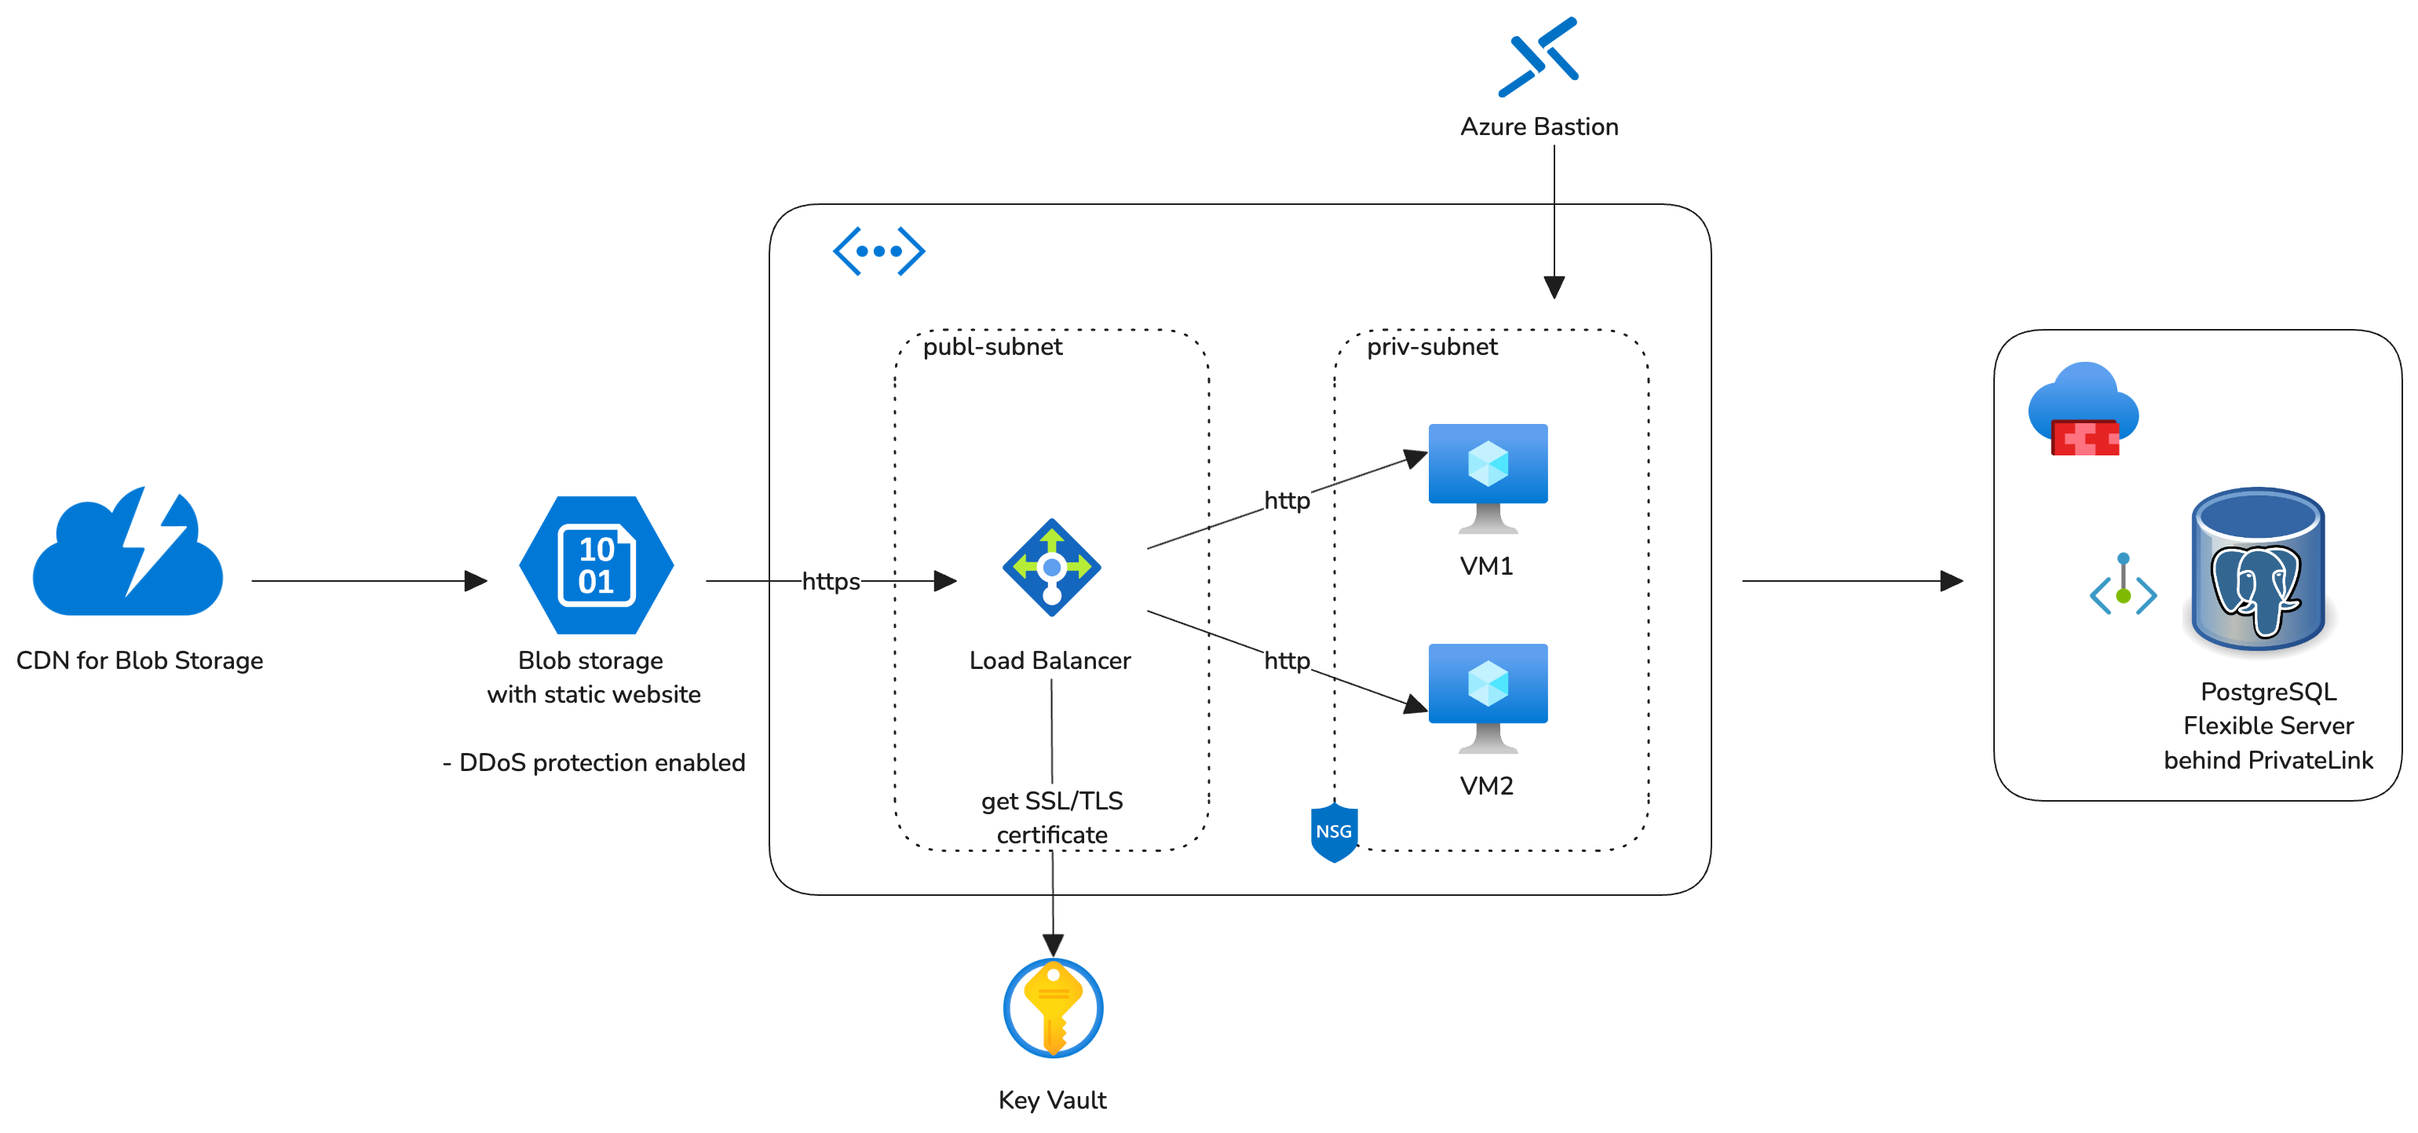
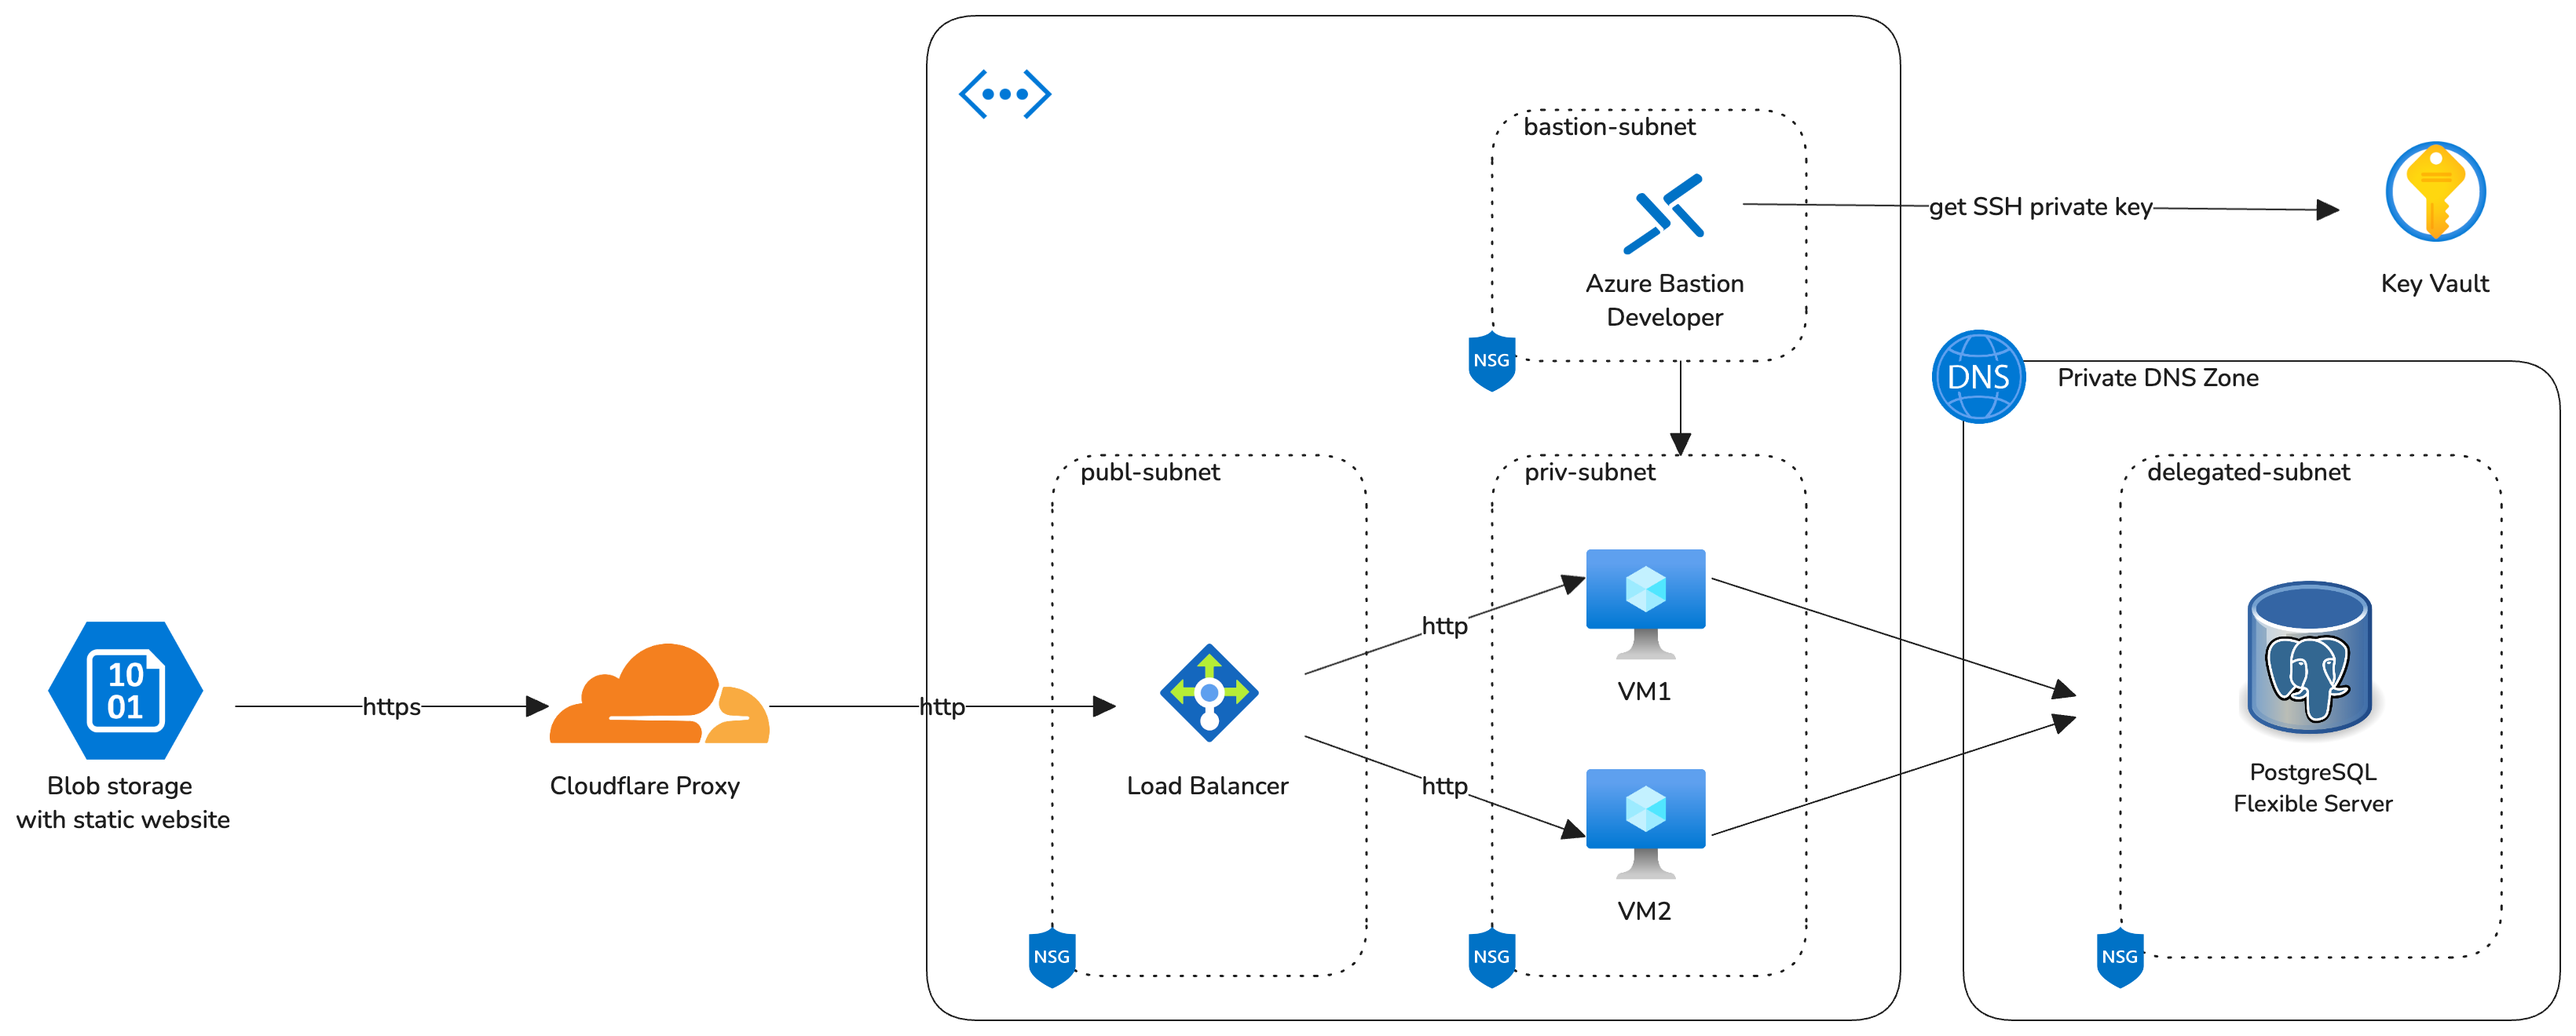
Update README.md

diff --git a/azure-fundamental-handson/README.md b/azure-fundamental-handson/README.md
@@ -1,0 +1,18 @@
+# Project: Azure Fundamental Hands-on
+
+This project is to gain hands-on experience about Microsoft Azure. 
+
+## Gained knowledge
+- Azure:
+    - Fundamental RBAC, ODIC with GitHub Actions
+    - VNet, subnets (public and private), NSG, Private DNS Zone
+    - Load Balancer: health probe, backend pool, routing rules
+    - Static website on Azure Container Storage
+    - Bastion: Developer SKU (it's free!!!), Key Vault integration
+    - Flexible Server for PostgreSQL: private VNet mode - delegated subnet
+
+## Note
+Most of the components in `architecture.png` are provisioned automatically via Terraform and GitHub Actions, there're still some missing components or manual operations required, such as:
+- NSGs for subnets
+- Cloudflare DNS records
+- Dockerize backend application and deploy it on VMs

diff --git a/README.md b/README.md
@@ -1,2 +1,5 @@
-# my-azure-playground
+# My Azure Playground
 A repository containing my pet projects on Azure.
+
+## Projects
+- [Azure Fundamental Hands-on](./azure-fundamental-handson/README.md)
